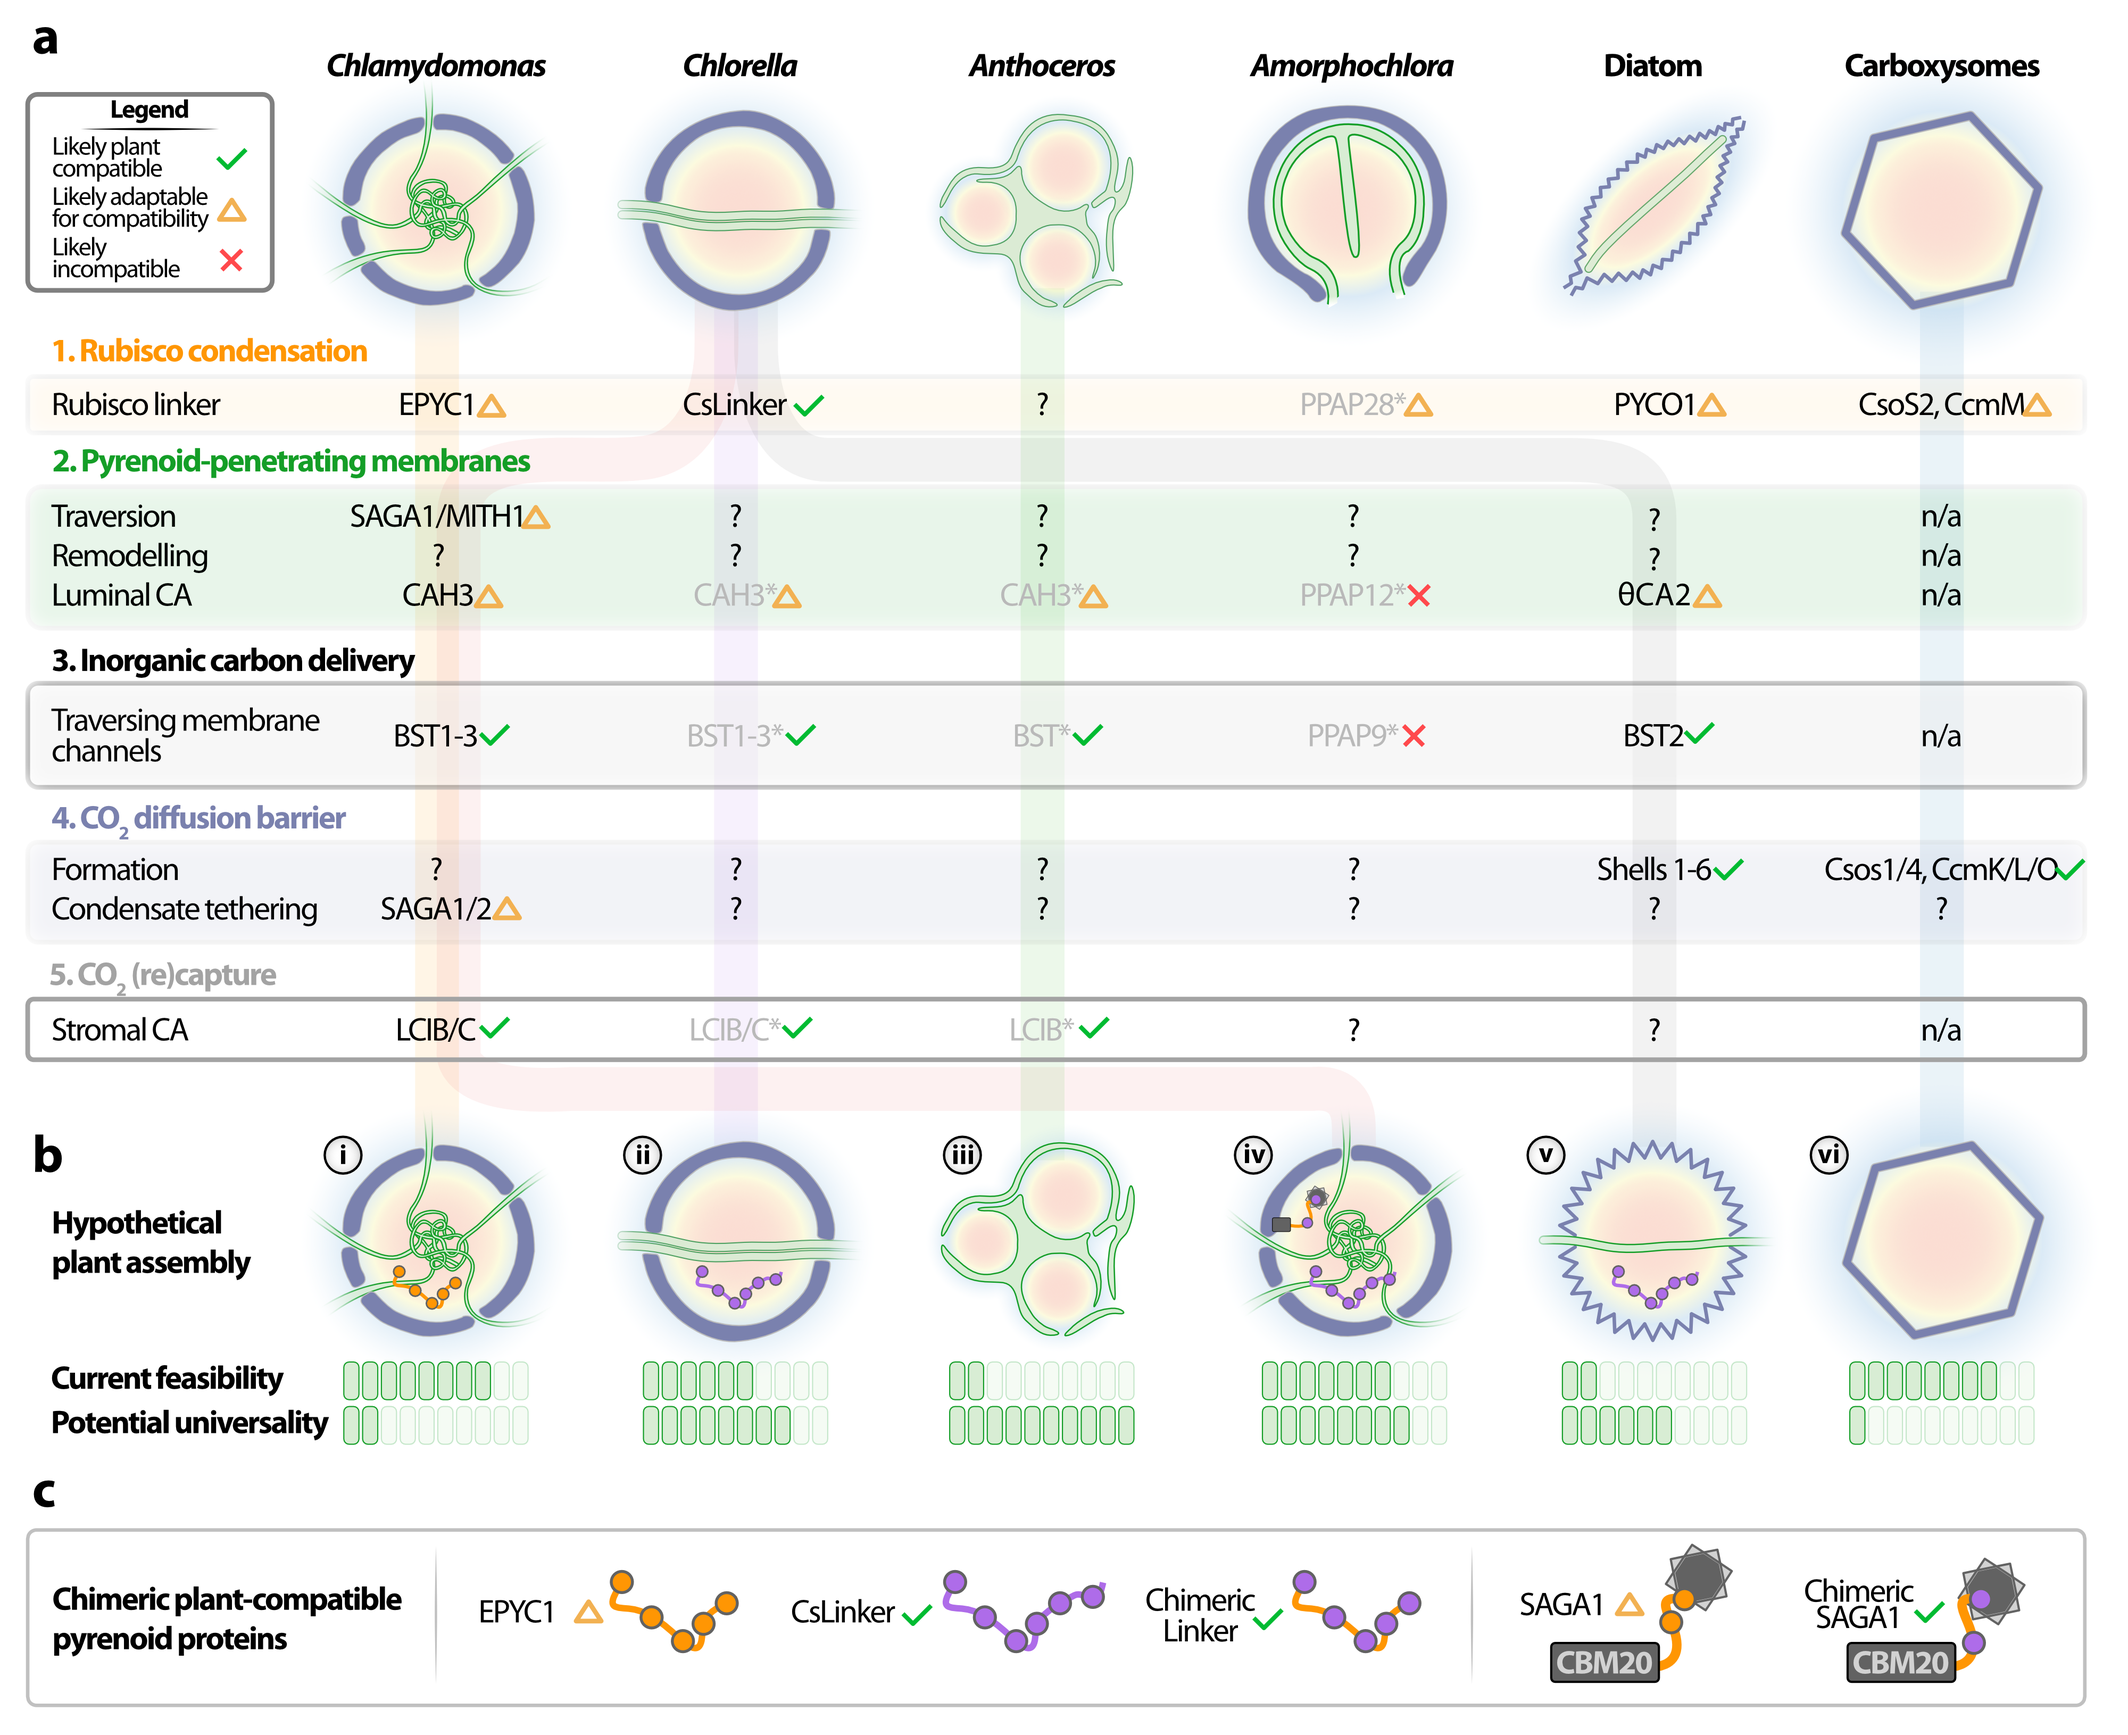
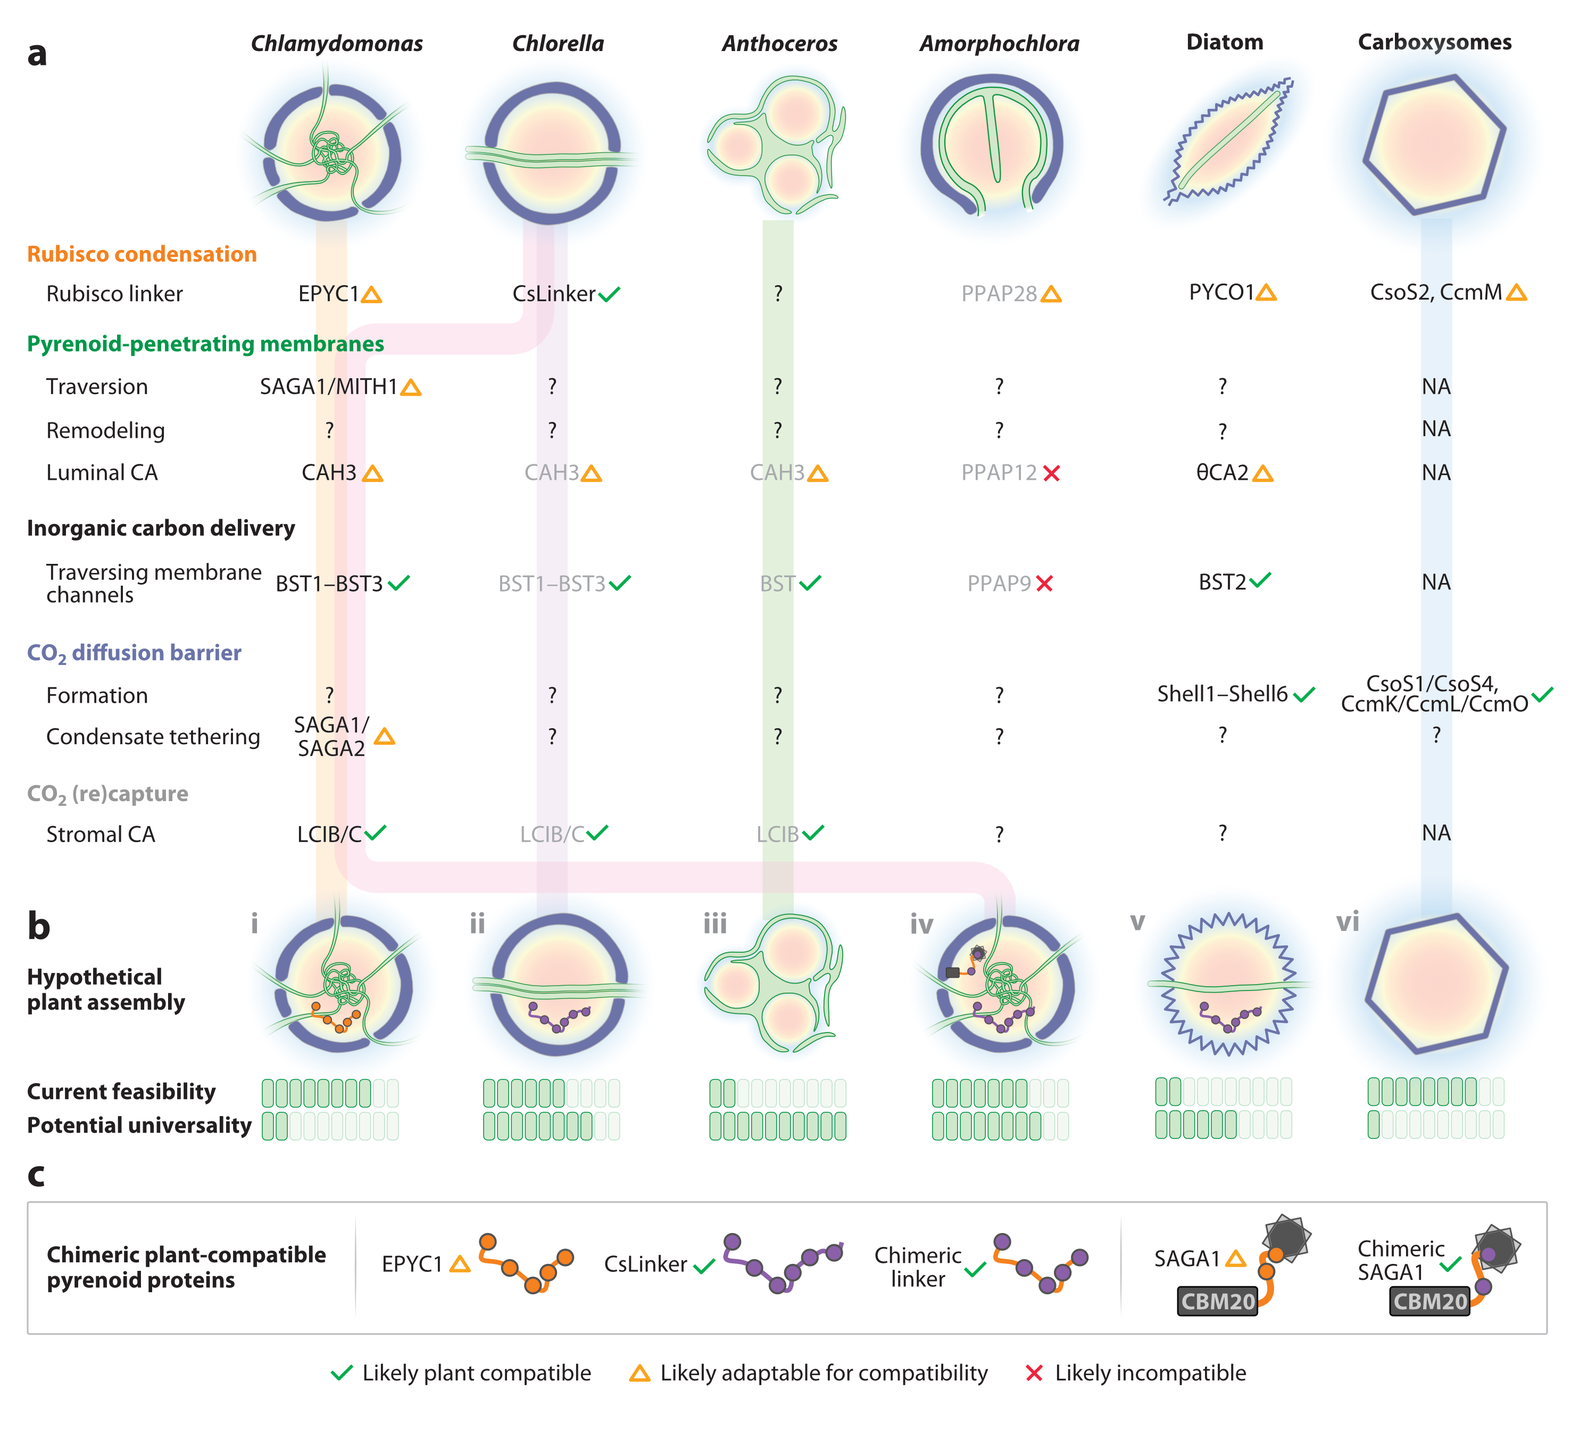
add manual dark mode toggle, update overview figure
Masthead button lets visitors override the OS/browser preference
(persisted via localStorage), falling back to prefers-color-scheme
when no choice has been made. Also updates the About page overview
figure to a transparent-background version and gives it a light
backing plate in dark mode so its dark text/lines stay legible.

diff --git a/_sass/_variables.scss b/_sass/_variables.scss
@@ -115,6 +115,24 @@ $masthead-link-color-hover  : mix(#000, $primary-color, 25%);
    Theme custom properties (light default, overridden for dark mode)
    ========================================================================== */
 
+@mixin dark-theme-vars {
+  --bg-color: #14181b;
+  --bg-surface: #1c2124;
+  --bg-surface-alt: #262c2f;
+  --text-color: #d3d7d9;
+  --text-muted: #92999d;
+  --border-color: #33393c;
+  --border-color-strong: #3f464a;
+  --code-bg: #002b36;
+  --code-header-bg: #073642;
+  --code-fg: #93a1a1;
+  --code-fg-muted: #657b83;
+  --accent-color: #34c9ae;
+  --shadow-color: rgba(0, 0, 0, 0.4);
+  --shadow-color-strong: rgba(0, 0, 0, 0.55);
+  color-scheme: dark;
+}
+
 :root {
   --bg-color: #f1f6f5;
   --bg-surface: #ffffff;
@@ -130,25 +148,19 @@ $masthead-link-color-hover  : mix(#000, $primary-color, 25%);
   --accent-color: #{$accent-color};
   --shadow-color: rgba(0, 0, 0, 0.06);
   --shadow-color-strong: rgba(0, 0, 0, 0.1);
+  color-scheme: light;
 }
 
+/* follows the OS/browser preference unless overridden by the toggle below */
 @media (prefers-color-scheme: dark) {
-  :root {
-    --bg-color: #14181b;
-    --bg-surface: #1c2124;
-    --bg-surface-alt: #262c2f;
-    --text-color: #d3d7d9;
-    --text-muted: #92999d;
-    --border-color: #33393c;
-    --border-color-strong: #3f464a;
-    --code-bg: #002b36;
-    --code-header-bg: #073642;
-    --code-fg: #93a1a1;
-    --code-fg-muted: #657b83;
-    --accent-color: #34c9ae;
-    --shadow-color: rgba(0, 0, 0, 0.4);
-    --shadow-color-strong: rgba(0, 0, 0, 0.55);
+  :root:not([data-theme="light"]) {
+    @include dark-theme-vars;
   }
+}
+
+/* explicit choice from the theme toggle, wins over the OS/browser preference */
+:root[data-theme="dark"] {
+  @include dark-theme-vars;
 }
 
 

diff --git a/assets/css/main.scss b/assets/css/main.scss
@@ -458,6 +458,25 @@
   line-height: 1.6;
 }
 
+// Figures with a transparent background assume light ink/lines, so give
+// them a fixed light backing plate in dark mode to stay legible; in light
+// mode they're left alone to blend straight into the page background.
+.figure-plate {
+  @media (prefers-color-scheme: dark) {
+    :root:not([data-theme="light"]) & {
+      background: #fff;
+      border-radius: 10px;
+      padding: 1rem;
+    }
+  }
+}
+
+:root[data-theme="dark"] .figure-plate {
+  background: #fff;
+  border-radius: 10px;
+  padding: 1rem;
+}
+
 .gh-readme-wrapper {
   margin-top: 2rem;
   padding: 1.5rem 1.75rem;
@@ -620,6 +639,51 @@
   color: var(--text-muted);
   font-size: 0.85em;
   line-height: 1.5;
+}
+
+.theme-toggle {
+  flex: 0 0 auto;
+  margin-left: 1rem;
+  padding: 0.5rem;
+  background: transparent;
+  border: 0;
+  border-radius: 10px;
+  color: $masthead-link-color;
+  font-size: 1em;
+  cursor: pointer;
+  transition: $global-transition;
+
+  &:hover,
+  &:focus {
+    color: $masthead-link-color-hover;
+    background: var(--bg-surface-alt);
+  }
+
+  .fa-sun {
+    display: none;
+  }
+
+  @media (prefers-color-scheme: dark) {
+    :root:not([data-theme="light"]) & {
+      .fa-sun {
+        display: inline-block;
+      }
+
+      .fa-moon {
+        display: none;
+      }
+    }
+  }
+}
+
+:root[data-theme="dark"] .theme-toggle {
+  .fa-sun {
+    display: inline-block;
+  }
+
+  .fa-moon {
+    display: none;
+  }
 }
 
 .search__toggle {

diff --git a/_includes/head.html b/_includes/head.html
@@ -2,6 +2,17 @@
 
 <meta charset="utf-8">
 
+<script>
+  (function () {
+    try {
+      var stored = localStorage.getItem('theme');
+      if (stored === 'light' || stored === 'dark') {
+        document.documentElement.setAttribute('data-theme', stored);
+      }
+    } catch (e) {}
+  })();
+</script>
+
 {% include seo.html %}
 
 <link href="{% if site.atom_feed.path %}{{ site.atom_feed.path }}{% else %}{{ base_path }}/feed.xml{% endif %}" type="application/atom+xml" rel="alternate" title="{{ site.title }} Feed">
@@ -27,7 +38,7 @@
   .greedy-nav .navicon,
   .greedy-nav .navicon::before,
   .greedy-nav .navicon::after {
-    background: #000 !important;
+    background: var(--text-color) !important;
     height: 2px !important; /* Make lines slightly thicker */
   }
 </style>

diff --git a/assets/js/theme-toggle.js b/assets/js/theme-toggle.js
@@ -1,0 +1,23 @@
+(function () {
+  function effectiveTheme() {
+    var attr = document.documentElement.getAttribute('data-theme');
+    if (attr === 'light' || attr === 'dark') return attr;
+    return window.matchMedia('(prefers-color-scheme: dark)').matches ? 'dark' : 'light';
+  }
+
+  function applyTheme(theme) {
+    document.documentElement.setAttribute('data-theme', theme);
+    try {
+      localStorage.setItem('theme', theme);
+    } catch (e) {}
+  }
+
+  document.addEventListener('DOMContentLoaded', function () {
+    var toggle = document.querySelector('[data-theme-toggle]');
+    if (!toggle) return;
+
+    toggle.addEventListener('click', function () {
+      applyTheme(effectiveTheme() === 'dark' ? 'light' : 'dark');
+    });
+  });
+})();

diff --git a/_includes/masthead.html b/_includes/masthead.html
@@ -27,6 +27,10 @@
         <ul class="hidden-links hidden"></ul>
       </nav>
     </div>
+    <button type="button" class="theme-toggle" aria-label="Toggle dark mode" data-theme-toggle>
+      <i class="fas fa-sun" aria-hidden="true"></i>
+      <i class="fas fa-moon" aria-hidden="true"></i>
+    </button>
     {% if site.search %}
       <button type="button" class="search__toggle" aria-label="Toggle search" data-search-toggle>
         <i class="fas fa-magnifying-glass" aria-hidden="true"></i>

diff --git a/_includes/scripts.html b/_includes/scripts.html
@@ -1,4 +1,5 @@
 <script src="{{ base_path }}/assets/js/main.min.js"></script>
+<script src="{{ base_path }}/assets/js/theme-toggle.js"></script>
 
 {% if site.search %}
   <script src="https://cdnjs.cloudflare.com/ajax/libs/lunr.js/2.3.9/lunr.min.js"></script>

diff --git a/_pages/about.md b/_pages/about.md
@@ -14,6 +14,7 @@ I am a post-doctoral research associate in the [Mackinder lab](https://mackinder
 My main interest is in characterising pyrenoid components and their evolution with a view to understanding how they can be used to guide synthetic biology engineering approaches in plants.
  
 ![placeholder summary figure](/images/overview_figure.png)
+{: .figure-plate}
 *Figure from [Barrett et al., Annual Review (2026)](/publications/2026-01-14-annual-review).*
  
 ## Funding
